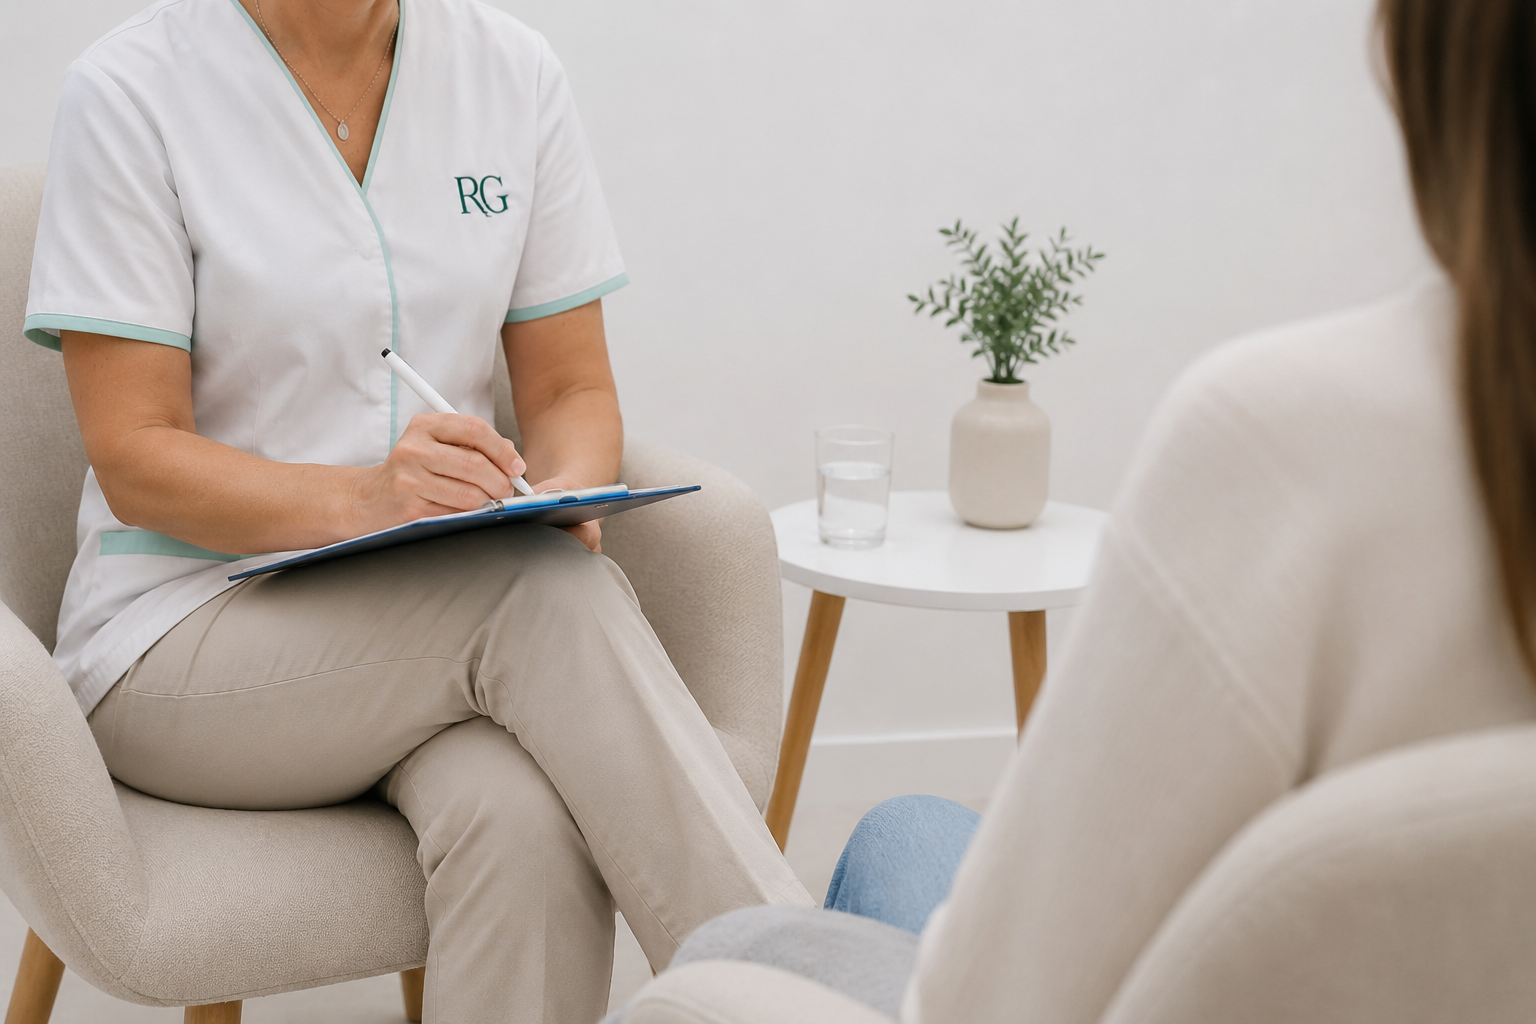
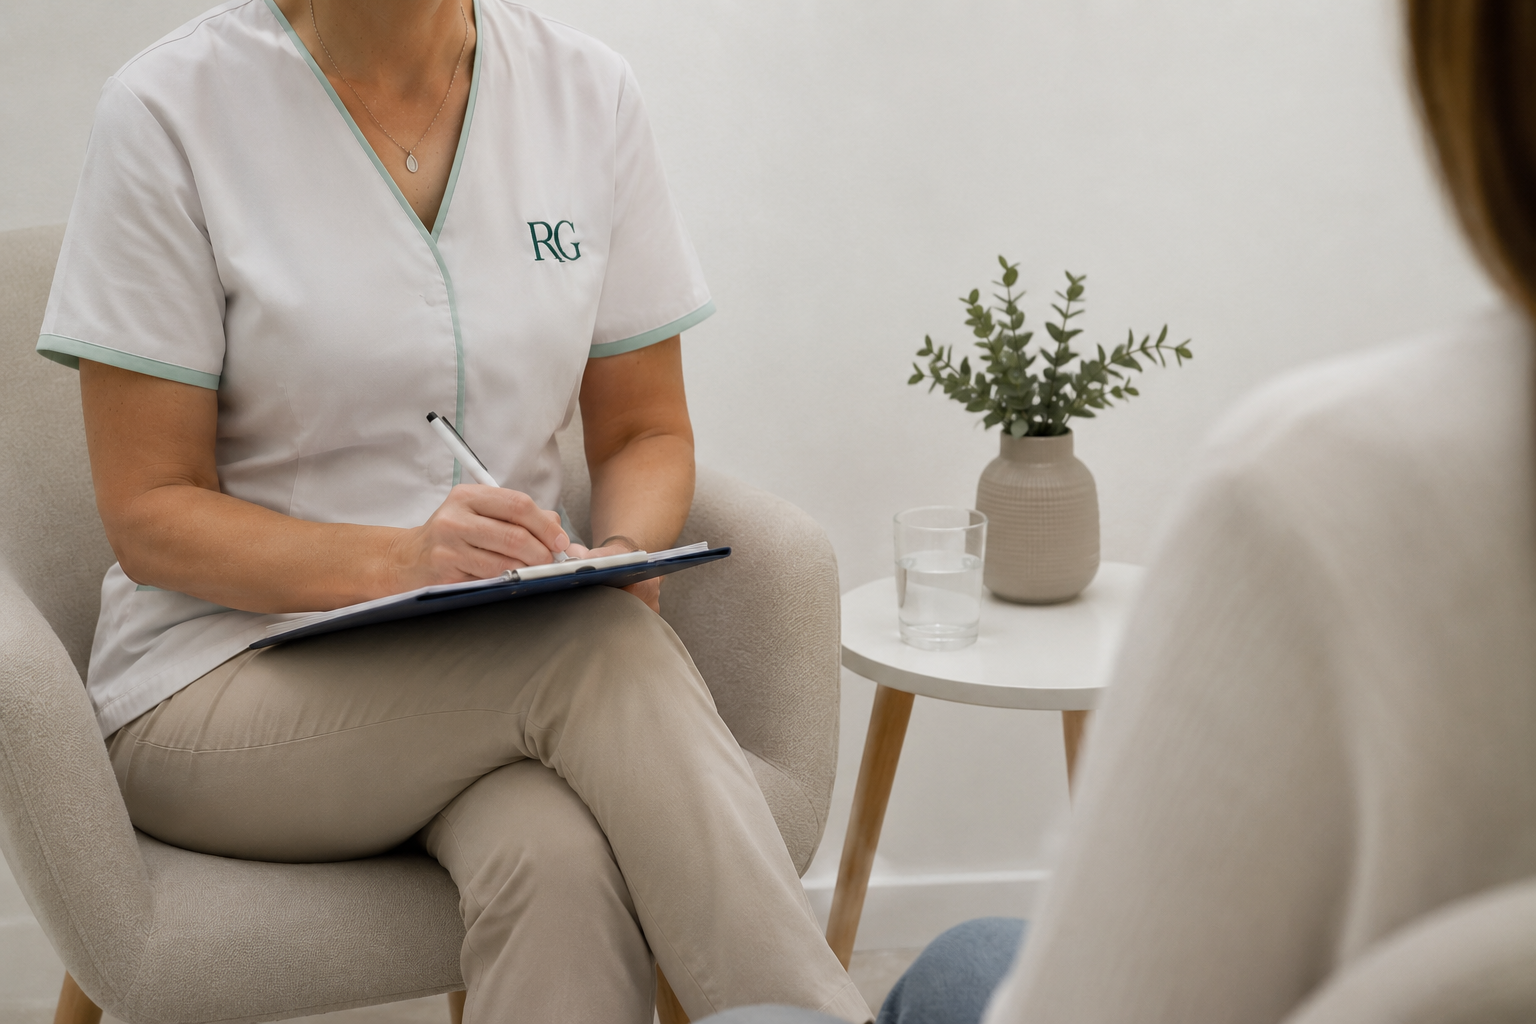
fix(home): tirar o degrade sobre a foto do hero + acertos no rail de testemunhos
Hero: o overlay .rg-hero-home-fade passa a estar sempre desligado — a foto fica
limpa, sem a fusao a esquerda nem a vinheta em baixo. O div fica no JSX para se
poder reativar.

Testemunhos: scrim mais aberto a meio e menos dessaturacao para a foto se ver,
rail mais baixo, aspas decorativas removidas, min-height na assinatura para os
nomes alinharem entre paineis, e em mobile nenhum painel fica destacado.
Textos testimonials_v2 (read_more/google_label) afinados em PT/EN/FR/ES.

diff --git a/website-clinica-rita-guerreiro/project/src/styles.css b/website-clinica-rita-guerreiro/project/src/styles.css
@@ -801,19 +801,21 @@ input:focus, textarea:focus, select:focus {
   width: 100%;
   height: 100%;
   object-fit: cover;
-  object-position: 50% 44%;
+  object-position: 50% 50%;
   z-index: 0;
   /* a foto é quente/rosada: dessaturar deixa o scrim teal assentar por cima */
-  filter: saturate(0.55) contrast(1.04);
+  filter: saturate(0.72) contrast(1.06);
 }
+/* Escuro em cima (título) e em baixo (citações), aberto a meio para a foto
+   respirar — é ela que tem de se ver entre o título e o rail. */
 .rg-rev-scrim {
   position: absolute;
   inset: 0;
   z-index: 1;
   pointer-events: none;
   background:
-    linear-gradient(to bottom, rgba(20, 49, 47, 0.9) 0%, rgba(20, 49, 47, 0.6) 32%, rgba(14, 37, 36, 0.84) 74%, rgba(11, 30, 29, 0.95) 100%),
-    linear-gradient(to right, rgba(20, 49, 47, 0.6) 0%, rgba(20, 49, 47, 0) 52%);
+    linear-gradient(to bottom, rgba(20, 49, 47, 0.78) 0%, rgba(20, 49, 47, 0.26) 26%, rgba(15, 40, 39, 0.5) 56%, rgba(11, 30, 29, 0.88) 84%, rgba(9, 26, 25, 0.95) 100%),
+    linear-gradient(to right, rgba(20, 49, 47, 0.58) 0%, rgba(20, 49, 47, 0.04) 56%);
 }
 .rg-rev-inner {
   position: relative;
@@ -826,7 +828,7 @@ input:focus, textarea:focus, select:focus {
 
 .rg-rev-rail {
   display: flex;
-  height: clamp(400px, 42vw, 540px);
+  height: clamp(380px, 34vw, 470px);
   border-top: 1px solid rgba(255, 255, 255, 0.16);
   border-bottom: 1px solid rgba(255, 255, 255, 0.16);
 }
@@ -850,26 +852,6 @@ input:focus, textarea:focus, select:focus {
 .rg-rev-rail:not(:hover):not(:focus-within) .rg-rev-panel--open {
   flex-grow: 2.6;
   background-color: rgba(255, 255, 255, 0.055);
-}
-
-/* Aspas decorativas — recuam quando a citação ocupa o painel */
-.rg-rev-mark {
-  position: absolute;
-  right: 14px;
-  bottom: 16px;
-  font-family: "Open Sans", system-ui, sans-serif;
-  font-size: 88px;
-  font-weight: 300;
-  line-height: 1;
-  color: rgba(255, 255, 255, 0.16);
-  user-select: none;
-  pointer-events: none;
-  transition: opacity 420ms ease;
-}
-.rg-rev-panel:hover .rg-rev-mark,
-.rg-rev-panel:focus-visible .rg-rev-mark,
-.rg-rev-rail:not(:hover):not(:focus-within) .rg-rev-panel--open .rg-rev-mark {
-  opacity: 0.4;
 }
 
 /* grid-template-rows 0fr→1fr: a citação não ocupa espaço enquanto fechada */
@@ -917,8 +899,11 @@ input:focus, textarea:focus, select:focus {
   color: rgba(255, 255, 255, 0.8);
 }
 
-/* Assinatura: a linha teal desenha-se ao longo do painel que está aberto */
-.rg-rev-meta { position: relative; padding-top: 20px; }
+/* Assinatura: a linha teal desenha-se ao longo do painel que está aberto.
+   min-height: o bloco está ancorado em baixo, por isso sem altura reservada os
+   nomes/etiquetas que quebram em mais linhas empurravam o nome para cima e
+   deixavam de alinhar entre painéis. */
+.rg-rev-meta { position: relative; padding-top: 20px; min-height: 96px; }
 .rg-rev-meta::before,
 .rg-rev-meta::after {
   content: '';
@@ -930,6 +915,7 @@ input:focus, textarea:focus, select:focus {
 .rg-rev-meta::before { right: 0; background: rgba(255, 255, 255, 0.2); }
 .rg-rev-meta::after {
   width: 0;
+  height: 2px;
   background: #6FB5B0;
   transition: width 620ms cubic-bezier(.2, .7, .2, 1);
 }
@@ -954,6 +940,7 @@ input:focus, textarea:focus, select:focus {
   font-family: "DM Sans", -apple-system, BlinkMacSystemFont, sans-serif;
   font-size: 10.5px;
   font-weight: 500;
+  line-height: 1.45;
   letter-spacing: 0.1em;
   text-transform: uppercase;
   color: #9FD4D0;
@@ -993,19 +980,24 @@ input:focus, textarea:focus, select:focus {
     border-top: 0;
     border-radius: 14px;
   }
-  .rg-rev-mark { display: none; }
   .rg-rev-g { position: static; align-self: flex-start; margin-bottom: 20px; }
   .rg-rev-body { grid-template-rows: 1fr; }
   .rg-rev-body-in { opacity: 1; transform: none; }
   .rg-rev-meta::after { display: none; }
   .rg-rev-quote { font-size: 16px; }
+  .rg-rev-meta { min-height: 0; }
+  /* Aqui está tudo aberto: destacar um painel deixaria de querer dizer nada */
+  .rg-rev-panel,
+  .rg-rev-panel:hover,
+  .rg-rev-rail:not(:hover):not(:focus-within) .rg-rev-panel--open { background-color: transparent; }
+  .rg-rev-panel--google,
+  .rg-rev-panel--google:hover { background-color: rgba(47, 107, 104, 0.42); }
 }
 
 @media (prefers-reduced-motion: reduce) {
   .rg-rev-panel,
   .rg-rev-body,
   .rg-rev-body-in,
-  .rg-rev-mark,
   .rg-rev-arrow,
   .rg-rev-meta::after { transition: none; }
 }

diff --git a/website-clinica-rita-guerreiro/project/src/tokens.jsx b/website-clinica-rita-guerreiro/project/src/tokens.jsx
@@ -96,8 +96,8 @@ const TRANSLATIONS = {
       cta: 'Conhecer a equipa',
     },
     testimonials_v2: {
-      read_more: 'Ler mais avaliações no Google',
-      google_label: 'Perfil da clínica',
+      read_more: 'Ver todas as avaliações',
+      google_label: 'Google · Perfil da clínica',
       google_body: 'Estas avaliações estão publicadas no perfil da clínica no Google, na íntegra e sem filtros. Abre numa nova janela.',
       featured_q: 'Durante anos sofri de dores crónicas de costas. A abordagem que a Rita fez ao problema foi sem dúvida transformadora — é como ter um corpo novo. A diferença que isto fez na minha qualidade de vida é difícil de descrever',
       featured_what: 'Fisioterapia · 18 meses de acompanhamento',
@@ -418,8 +418,8 @@ const TRANSLATIONS = {
       cta: 'Meet the team',
     },
     testimonials_v2: {
-      read_more: 'Read more reviews on Google',
-      google_label: 'Clinic profile',
+      read_more: 'See all reviews',
+      google_label: 'Google · Clinic profile',
       google_body: 'These reviews are published on the clinic’s Google profile, in full and unfiltered. Opens in a new window.',
       featured_q: 'For years I suffered from chronic back pain. The way Rita approached the problem was truly transformative — it feels like having a new body. The difference it has made to my quality of life is hard to describe',
       featured_what: 'Physiotherapy · 18 months of treatment',
@@ -723,8 +723,8 @@ const TRANSLATIONS = {
       cta: 'Rencontrer l’équipe',
     },
     testimonials_v2: {
-      read_more: 'Lire plus d’avis sur Google',
-      google_label: 'Profil de la clinique',
+      read_more: 'Voir tous les avis',
+      google_label: 'Google · Profil de la clinique',
       google_body: 'Ces avis sont publiés sur le profil Google de la clinique, intégralement et sans filtre. Ouvre dans une nouvelle fenêtre.',
       featured_q: 'Pendant des années j’ai souffert de douleurs chroniques au dos. L’approche que Rita a apportée au problème a été véritablement transformatrice — c’est comme avoir un nouveau corps. La différence que cela a fait dans ma qualité de vie est difficile à décrire',
       featured_what: 'Physiothérapie · 18 mois de suivi',
@@ -1045,8 +1045,8 @@ const TRANSLATIONS = {
       cta: 'Conocer al equipo',
     },
     testimonials_v2: {
-      read_more: 'Leer más reseñas en Google',
-      google_label: 'Perfil de la clínica',
+      read_more: 'Ver todas las reseñas',
+      google_label: 'Google · Perfil de la clínica',
       google_body: 'Estas reseñas están publicadas en el perfil de la clínica en Google, íntegras y sin filtros. Abre en una ventana nueva.',
       featured_q: 'Durante años sufrí dolores crónicos de espalda. El enfoque que Rita le dio al problema fue sin duda transformador — es como tener un cuerpo nuevo. La diferencia que esto ha supuesto en mi calidad de vida es difícil de describir',
       featured_what: 'Fisioterapia · 18 meses de seguimiento',

diff --git a/website-clinica-rita-guerreiro/project/index.html b/website-clinica-rita-guerreiro/project/index.html
@@ -62,21 +62,21 @@
 <link rel="preconnect" href="https://fonts.googleapis.com">
 <link rel="preconnect" href="https://fonts.gstatic.com" crossorigin>
 <link href="https://fonts.googleapis.com/css2?family=Open+Sans:wght@300;400;500;600;700&family=DM+Sans:wght@300;400;500;600&family=JetBrains+Mono:wght@400;500;600&display=swap" rel="stylesheet">
-<link rel="stylesheet" href="/src/styles.css?v=20260715i">
+<link rel="stylesheet" href="/src/styles.css?v=20260715j">
 <link rel="stylesheet" href="/src/premium.css?v=20260715c">
-<link rel="stylesheet" href="/src/mobile.css?v=20260715f">
+<link rel="stylesheet" href="/src/mobile.css?v=20260715h">
 </head>
 <body>
 <div id="root"></div>
 <script src="https://unpkg.com/react@18.3.1/umd/react.development.js" integrity="sha384-hD6/rw4ppMLGNu3tX5cjIb+uRZ7UkRJ6BPkLpg4hAu/6onKUg4lLsHAs9EBPT82L" crossorigin="anonymous"></script>
 <script src="https://unpkg.com/react-dom@18.3.1/umd/react-dom.development.js" integrity="sha384-u6aeetuaXnQ38mYT8rp6sbXaQe3NL9t+IBXmnYxwkUI2Hw4bsp2Wvmx4yRQF1uAm" crossorigin="anonymous"></script>
 <script src="https://unpkg.com/@babel/standalone@7.29.0/babel.min.js" integrity="sha384-m08KidiNqLdpJqLq95G/LEi8Qvjl/xUYll3QILypMoQ65QorJ9Lvtp2RXYGBFj1y" crossorigin="anonymous"></script>
-<script type="text/babel" src="/src/tokens.jsx?v=20260715f"></script>
+<script type="text/babel" src="/src/tokens.jsx?v=20260715g"></script>
 <script type="text/babel" src="/src/logo.jsx?v=20260713b"></script>
 <script type="text/babel" src="/src/data.jsx?v=20260715d"></script>
 <script type="text/babel" src="/src/data_i18n.jsx?v=20260715b"></script>
 <script type="text/babel" src="/src/ui.jsx?v=20260714d"></script>
-<script type="text/babel" src="/src/home.jsx?v=20260715k"></script>
+<script type="text/babel" src="/src/home.jsx?v=20260715m"></script>
 <script type="text/babel">
 function App() {
   return (<>

diff --git a/website-clinica-rita-guerreiro/project/src/home.jsx b/website-clinica-rita-guerreiro/project/src/home.jsx
@@ -111,10 +111,8 @@ function Hero() {
           style={{ width: '100%', height: '100%', objectFit: 'cover', objectPosition: 'center 30%', display: 'block' }}
           loading="eager" decoding="async"
         />
-        {/* Degradê de fusão — funde só a margem esquerda da foto no creme da coluna
-            de texto, para não haver um corte reto entre as duas colunas, mais uma
-            vinheta subtil em baixo (nunca branca, que criava faixa visível).
-            Só em desktop split (≥1700px); escondido quando o hero empilha. */}
+        {/* Overlay de degradê — desligado via CSS (.rg-hero-home-fade), a foto
+            fica limpa. Mantido para poder voltar a ativar se for preciso. */}
         <div className="rg-hero-home-fade" aria-hidden="true" style={{ position: 'absolute', inset: 0, pointerEvents: 'none', zIndex: 1 }} />
         {/* Eyebrow pill — visível só em mobile via CSS */}
         <span className="rg-hero-home-eyebrow" aria-hidden="true">Centro de Terapias & Bem-Estar</span>
@@ -721,7 +719,6 @@ function Testimonials() {
                 className={'rg-rev-panel' + (i === 0 ? ' rg-rev-panel--open' : '')}
                 href={GOOGLE_REVIEWS_URL} target="_blank" rel="noopener noreferrer"
               >
-                <span className="rg-rev-mark" aria-hidden="true">&rdquo;</span>
                 <div className="rg-rev-body">
                   <div className="rg-rev-body-in">
                     <Stars />

diff --git a/website-clinica-rita-guerreiro/project/src/mobile.css b/website-clinica-rita-guerreiro/project/src/mobile.css
@@ -199,20 +199,8 @@
   .rg-hero-home-photo img { height: 100% !important; }
 }
 
-/* Degradê de fusão da foto do hero — só no layout split (≥1700px), onde a foto
-   encosta à coluna de texto creme. À esquerda a transparência chega aos 0
-   depressa (14% da largura) para nunca velar as pessoas das pontas. Em baixo é
-   uma vinheta escura muito ténue, para dar profundidade sem a faixa branca que
-   parecia espaço vazio. */
+/* Sem degradê sobre a foto do hero — a foto fica limpa em todos os tamanhos. */
 .rg-hero-home-fade { display: none; }
-@media (min-width: 1700px) {
-  .rg-hero-home-fade {
-    display: block;
-    background:
-      linear-gradient(to right, rgba(255, 255, 255, 1) 0%, rgba(255, 255, 255, 0.7) 4%, rgba(255, 255, 255, 0) 14%),
-      linear-gradient(to bottom, rgba(20, 20, 18, 0) 62%, rgba(20, 20, 18, 0.16) 100%);
-  }
-}
 
 /* 769–1699px: a coluna da direita não é larga que chegue para a foto da equipa
    (2000×1215) ficar tão alta como o texto — em split o cover cortaria as pessoas
